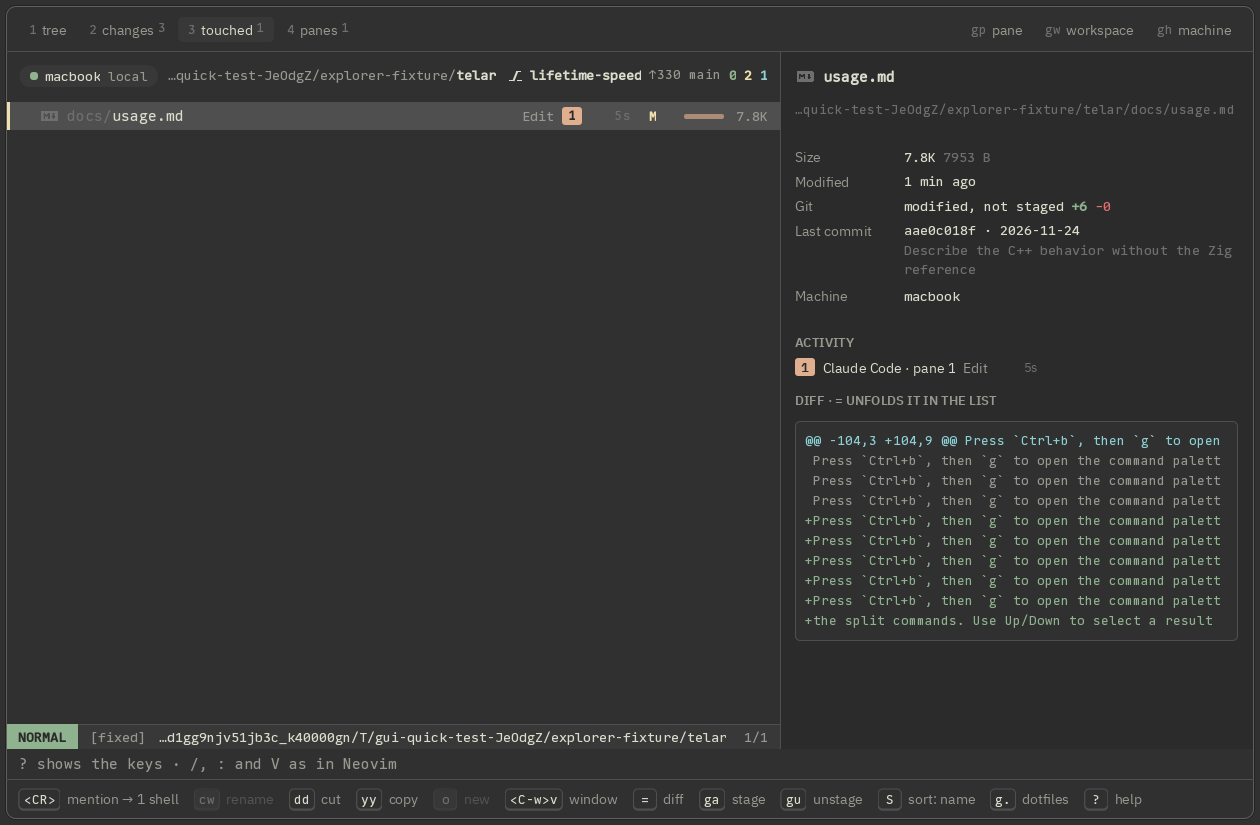
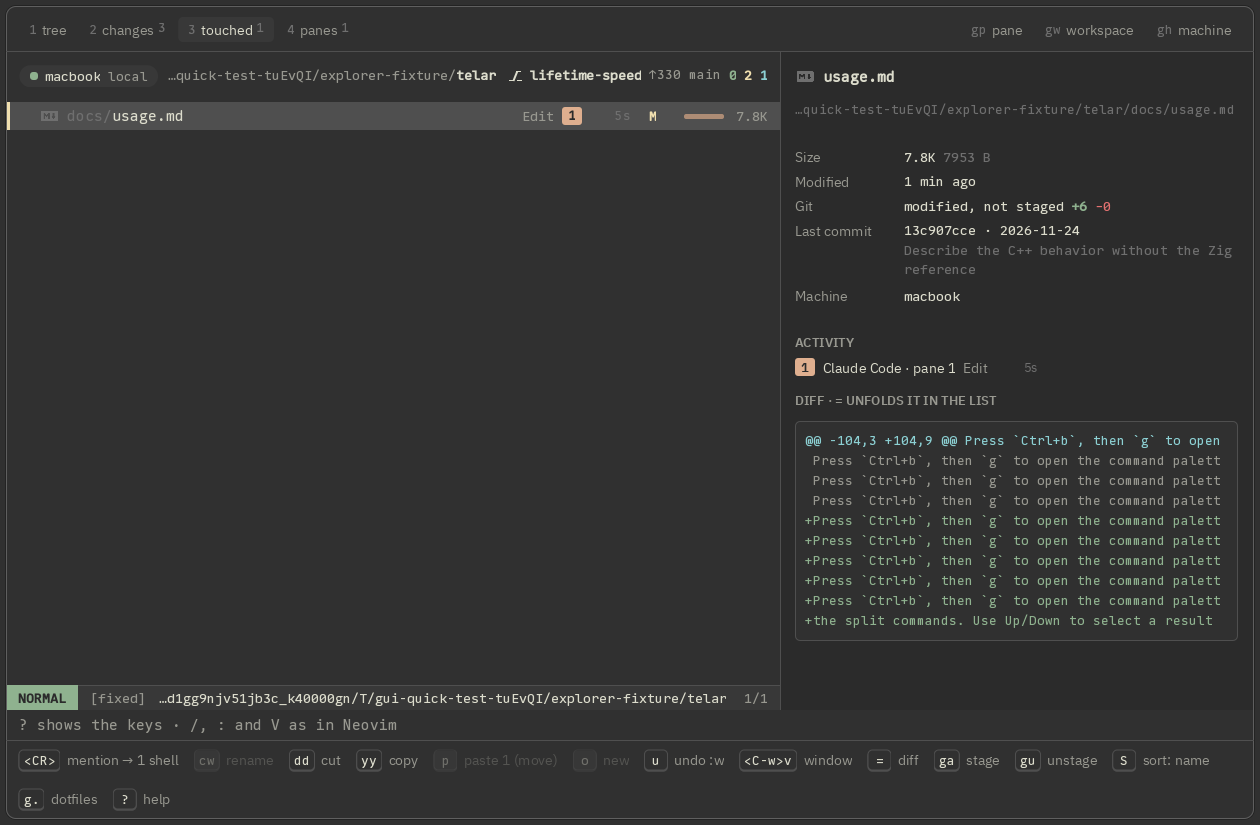
Describe what the explorer does now of the design's second reading
The guide says the lenses as they list now, :e on a file, the plan's answers
and notes, what p refuses, :cancel with a number, what a selection takes from
normal mode, and what the status line and the previews say. The pictures whose
look changed are taken again.

diff --git a/docs/explorer.md b/docs/explorer.md
@@ -60,8 +60,8 @@ pane, `cw` renames it, `dd` cuts it, the preview shows it. The window did not li
 so before the plan of `:w` shows, the runtime says which file each one is, and that is the file
 it then checks.
 
-In the changes and the panes, and with a runtime that has no path search, `/` narrows the rows
-the window already lists.
+In the changes, the touches and the panes, and with a runtime that has no path search, `/`
+narrows the rows the window already lists.
 
 ## What a row says
 
@@ -96,7 +96,7 @@ on its way from another machine, says what waits to be done.
 
 Of a directory it says how many of its entries the window lists, as `17 of 19 visible`, and
 lists the seven that weigh the most under **Heaviest**, each with its size and its part of all
-the directory holds. It does so from what the window already holds: a directory it lists whole,
+the directory holds, and `hidden` or `ignored` beside one the window leaves out of its rows. It does so from what the window already holds: a directory it lists whole,
 as an unfolded one, and for the heaviest with every directory in it measured. Until then it
 says neither, since the heaviest of a part is not the heaviest.
 
@@ -108,8 +108,9 @@ says neither, since the heaviest of a part is not the heaviest.
 `:touched` and `:panes` do.
 
 - **tree**: the directories, unfolded as you ask.
-- **changes**: what git says changed, in three groups: staged, unstaged and untracked. `=`
-  unfolds the diff of a file below its row here too, and in the lens of what was touched.
+- **changes**: what git says changed below the window's root, in three groups: staged,
+  unstaged and untracked, each path from that root. The number beside the lens counts them.
+  `=` unfolds the diff of a file below its row here too, and in the lens of what was touched.
 
   ![The lens of changes](images/telar-explorer-changes.png)
 
@@ -120,7 +121,11 @@ says neither, since the heaviest of a part is not the heaviest.
 
   ![The lens of what the panes touched](images/telar-explorer-touched.png)
 
-- **panes**: the panes of the tab, each with its directory. Enter goes to the pane.
+- **panes**: the panes of the window's machine, of every workspace and tab of it, each with
+  its workspace and its directory; an editor is listed by the file it is on. Enter goes to
+  the pane, whose tab comes into view, and whose machine does when it is another one. The
+  preview says what kind of pane it is, the file an editor is on and what an agent is doing.
+  A pane of a tab the window never showed has no directory: its runtime lists it without one.
 
 ## Who touched a file
 
@@ -150,11 +155,13 @@ that machine starts or ends a program or its agent reports. A machine with no wi
 ## Follow a pane
 
 A window follows the focused pane until you send it somewhere else: its root is the pane's
-workspace, and the selection is the pane's directory. `gp` roots it at the pane's directory
+workspace, and the pane's directory is unfolded and selected. With an editor pane it is the
+file the editor is on that is selected, in its directory, and the window goes with the editor
+from one file to the next. `gp` roots it at the pane's directory
 instead, `gw` at the workspace's and `gh` at the home of the machine, as `:scope pane`,
 `:scope workspace` and `:scope machine` do. Enter on a directory,
-`-` or `:e` take the window where you say, and the status line says `[fixed]`; `F` follows the
-pane again.
+`-` or `:e` take the window where you say, and the status line says `[fixed]`; `F`, `:follow`
+or a click on that part of the status line follows the pane again, and the same stops it.
 
 ## Hand a file to a pane
 
@@ -166,7 +173,7 @@ pane again.
 | `gf` | Opens it in the tab's [editor pane](editor.md). |
 | `cd` | Changes the directory of the focused shell to the row's. `:cd PATH` does it with a path, as the window reads one, and `:cd` alone with the window's root. |
 | `s` | Opens a new shell in the row's directory, in a split. |
-| `yy` `yr` `yn` | Copy the path, the path from the root, or the name to the clipboard. |
+| `yy` `yr` `yn` | Copy the path, the path from the root, or the name to the clipboard. `yy` also takes the rows for `p`; `yr` and `yn` copy text and leave what `yy` took. |
 | `.` | Repeats the last of these, and of the ones that change files or git's index, on the row selected now. |
 
 The explorer closes when a file goes to a pane, so what the pane did with it shows. [Beside
@@ -187,7 +194,17 @@ Enter and Escape both end a name: what was typed is the change, and so does a cl
 another row. An empty name leaves a rename undone and adds no entry. A new entry keeps the
 selection once it has its name.
 
-A count takes that many rows: `3dd`. `V` selects rows for `d`, `y`, `ga` and `gu`.
+A count takes that many rows: `3dd`. `V` selects rows for `d`, `y`, `ga` and `gu`. A
+selection also takes the keys of normal mode it has none of its own for, `:` and `?` among
+them: one that only moves keeps the selection, and any other ends it once it ran. `q` leaves
+the selection, not the explorer.
+
+`p` puts what was taken in the tree: the lists of changes, of touches and of panes have no
+directory to take it. Nothing is put where it already is, nor a directory into itself. While
+rows wait for a place, the hints say how many and whether `p` moves or copies them.
+
+Keys that name nothing say so under the windows, and the keys that change how a window lists,
+`S`, `g.`, `gi`, `zM`, `zR` and `F`, say what they did.
 
 The shortcuts of a file manager name the same commands: Cmd or Ctrl with `c`, `x`, `v`, `z`,
 `s` and `a` are `yy`, `dd`, `p`, `u`, `:w` and every row picked; F2 renames, and Delete, or Cmd
@@ -195,7 +212,8 @@ with Backspace, cuts.
 
 ![Changes typed on the listing, not yet written](images/telar-explorer-pending.png)
 
-`:w` shows what the runtime will be asked to do, and `y` sends it:
+`:w` shows what the runtime will be asked to do, and `y` sends it. `n`, `q` or Escape leave the
+plan with the changes still pending, and any other key is no answer:
 
 ![The plan of :w](images/telar-explorer-plan.png)
 
@@ -213,8 +231,12 @@ with Backspace, cuts.
   directory goes to the trash with all it holds. A name is known as taken from the listings
   the window holds: one in a directory it never listed is found by the runtime, which gives
   the file another.
+- Below its paths a line says what it does besides: that it is carried from one machine to
+  another through the window, the trash a delete goes to, what a restore discards.
+- Once the runtimes answered, the line under the windows says how many of the plan's
+  operations they applied, `2 of 3`, and what became of the others.
 - `u` with nothing typed asks whether to take the last plan back, and `y` does: what it
-  deleted returns from the trash.
+  deleted returns from the trash. The hints say `undo :w` while that is what `u` would do.
 - A plan holds 64 operations at most.
 
 `q` and `:q` do not close the last window while changes wait; `:q!` and `:e!` discard them.
@@ -276,7 +298,7 @@ on its own leaves as its text alone, and so does a directory on Linux.
 | `=` | Unfold the diff of the file below its row. |
 | `ga` `gu` | Stage and unstage, at once. |
 | `gX` | Discard the changes the working tree holds of a file, or of every file below a directory; what the index holds stays. It is a change typed, written by `:w`, as it loses work. |
-| `gc` | Commit what is staged: it opens `:commit` for the message. |
+| `gc` | Commit what is staged: it opens `:commit` for the message, which may stand between quotes. |
 
 The head of a window says the branch, how far it is from its base, as `↑6 main`, and how many
 paths are staged, changed and untracked. The base is the branch the remote has as its head,
@@ -289,15 +311,17 @@ fetch that moves the base shows a little later.
 
 ## Windows
 
-The explorer splits into three windows at most, each on its own directory.
+The explorer splits into three windows at most, each on its own directory. The status line of
+the window that takes the keys says its mode; the others say which they are, `1` to `3`. A
+window on another machine than the one telar runs on names it before its root, `box:~/logs`.
 
 | Keys | What they do |
 | --- | --- |
 | `Ctrl+w` `v`, `Ctrl+w` `s` | Another window, beside or below. |
 | `Ctrl+w` `w`, `Ctrl+w` `h` `j` `k` `l` | Go to the next window, around the last; or to the one on that side, where there is one: `h` and `l` between windows side by side, `k` and `j` between one below the other. |
 | `Ctrl+w` `q`, `Ctrl+w` `o` | Close this window, or every other one. |
-| `:e PATH`, `:vs PATH`, `:sp PATH` | Take this window, or a new one, to a path. `~` is the home, and a relative path starts at the window's root. A path of [another machine](#machines) starts with its label and a colon. |
-| `Tab` | On the command line, complete the name of a command; and on one of those lines and on `:cd`, the directory being typed: the one that matches, or the start that several share, which it lists beside the line. |
+| `:e PATH`, `:vs PATH`, `:sp PATH` | Take this window, or a new one, to a path. `~` is the home, and a relative path starts at the window's root. A directory becomes the root; a file is selected in its own directory, in the tree where it is below the root. A path where nothing is says so, and the window stays where it was. A path of [another machine](#machines) starts with its label and a colon. |
+| `Tab` | On the command line, complete the name of a command; and on one of those lines the directory or the file being typed, on `:cd` the directory alone: the one that matches, or the start that several share, which it lists beside the line. |
 
 Alt with `w` starts the same sequences as `Ctrl+w`, for a system that keeps that key for
 itself, unless a configuration binds it.
@@ -356,7 +380,7 @@ comes from the runtime of its own machine; a machine with no window is asked for
 | Keys | What they do |
 | --- | --- |
 | `:e LABEL:PATH`, `:vs LABEL:PATH`, `:sp LABEL:PATH` | Take this window, or a new one, to a path of the machine with that label: `:vs box:~/logs`. `~` is the home of the account there, which its runtime says. |
-| `:machine LABEL` | Take this window to that machine: where this explorer last was on it, or its home. `:machine` alone lists the machines. |
+| `:machine LABEL` | Take this window to that machine: where this explorer last was on it, or its home. `:machine` alone goes to the next one, as `gm` does, and a label that is no machine's is answered with the ones there are. A machine keeps what a window had unfolded on it, for the window that next goes there. |
 | `gm`, or a click on the machine in the head | The next machine that answers, around. |
 | `Tab` | Complete the label of a machine before its colon, where no directory starts that way; and after the colon, the directory being typed, from what that machine lists: `:e box:~/lo` becomes `:e box:~/logs/`. A path that starts nowhere starts at the home there. |
 
@@ -405,7 +429,7 @@ other, 256 KiB at a time, and holds one such piece of it and no more.
 | A drag onto a window of another machine | A copy; with Shift held, a move. On its own machine a drag moves, and copies with Alt. |
 | A file of another machine dragged out of the window | A copy where it is let go: on macOS where the system asks for it, a directory too, as its tree; on Linux a file, through the cache. See [the pointer](#with-the-pointer). |
 | Enter on a file, or on rows chosen with `V`, with the focused pane on another machine; or those rows let go on a pane of another machine | The line under the windows asks `bring a copy there? [y/N]`, of each row when they are several. With `y` each goes to `~/Downloads/telar/LABEL/` on the pane's machine, in a directory made when it is missing, a directory as its tree, and its path is typed at the pane once it is whole, as a mention for an agent. Any other key leaves it. An editor's pane is brought nothing: `gf` opens the file where it is. |
-| `:cancel` | Stops the files on their way to or from the machine of this window; `:cancel!` stops every one. |
+| `:cancel` | Stops the transfer started last that still runs; `:cancel N` the one of that number, and `:cancel!` every one. |
 
 ![A file on its way from one machine to another](images/telar-explorer-transfer.png)
 
